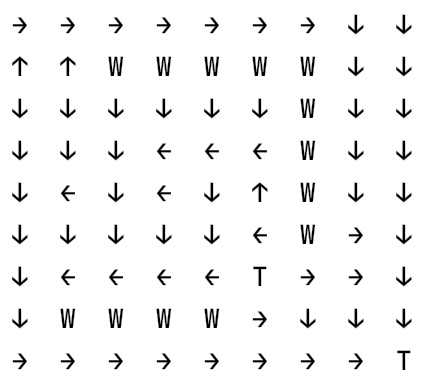
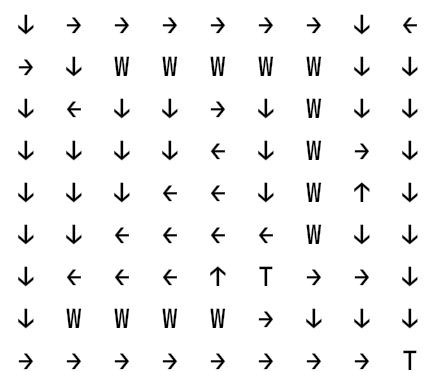
Q learning working

diff --git a/mc_policy_evaluation.py b/mc_policy_evaluation.py
@@ -9,20 +9,19 @@ from gridworld import GridworldEnv
 def mc_policy_evaluation_random_policy(env, num_episodes=1000):
     # Start with an all 0 value function
     V = defaultdict(float)
+    for _s in env.P:
+        V[_s] = 0.0
     returns = defaultdict(list)  # an empty list for each state
     for i in range(num_episodes):
         episodes = []
         # init_state = choice(list(set(env.P.keys()) - set(env.wall_states)))  # draw a random state to start, exc. wall
         init_state = choice(list(set(env.P.keys())))  # draw a random state to start, exc. wall
         # generate an episode
-        while True:
-
+        while not env.is_terminal(init_state):
             action = choice(list(env.P[init_state].keys()))  # random policy such that draw an action randomly
             next_state = env.P[init_state][action][0][1]
             reward = env.P[init_state][action][0][2]
             episodes.append([init_state, action, reward])
-            if env.is_terminal(init_state):
-                break
             init_state = next_state
         G = 0
         states_seen = set()
@@ -32,11 +31,11 @@ def mc_policy_evaluation_random_policy(env, num_episodes=1000):
                 states_seen.add(S)
                 returns[S].append(G)
                 V[S] = np.mean(returns[S])
+        # print(V)
     # terminal states have return 0 always
-    V[env.treasure_state] = 0.0
-    V[env.snake_pit_state] = 0.0
+    # V[env.treasure_state] = 0.0
+    # V[env.snake_pit_state] = 0.0
 
-    assert len(V) == env.nS  # at least each state needs to be at least estimated once
     V_sorted = sorted(V.items(), key=lambda x: x[0])  # sort by state
     return V_sorted
 

diff --git a/q_learning.py b/q_learning.py
@@ -1,0 +1,41 @@
+import sys
+from collections import defaultdict
+from random import choice
+import random
+import numpy as np
+
+from gridworld import GridworldEnv
+
+
+def q_learning(env, num_episodes=1000):
+    # Start with an all 0 Q value function
+    step_size = 0.8
+    discount_factor = 1.0
+    Q = defaultdict(dict)
+    for _s in env.P:
+        for _a in [0, 1, 2, 3]:
+            Q[_s][_a] = random.uniform(0,1)
+    for _ in range(num_episodes):
+        # init_state = choice(list(set(env.P.keys()) - set(env.wall_states)))  # draw a random state to start, exc. wall
+        init_state = choice(list(set(env.P.keys())))  # draw a random state to start
+        # generate an episode
+        while not env.is_terminal(init_state):
+            init_action = max(Q[init_state].items(), key=lambda a: a[1])[0]  # choose the action with max Q value for state
+            reward = env.P[init_state][init_action][0][2]
+            next_state = env.P[init_state][init_action][0][1]
+            # update Q value
+            best_q_for_next_state = max(Q[next_state].items(), key=lambda a: a[1])[1]
+            Q[init_state][init_action] += step_size * (reward + discount_factor * best_q_for_next_state
+                                                       - Q[init_state][init_action])
+            init_state = next_state
+        env.plot_q_value(Q)
+        sys.stdout.flush()
+    return Q
+
+
+if __name__ == '__main__':
+    env = GridworldEnv((9, 9))
+    print(env.P)
+    env._render(mode="human")
+    V = q_learning(env, 50000)
+    print(V)

diff --git a/gridworld.py b/gridworld.py
@@ -92,7 +92,7 @@ class GridworldEnv(discrete.DiscreteEnv):
             # Not a terminal state
             else:
                 # next_state_up = s if y == 0 else s - MAX_X
-                if y == 0 or (y == 2 and x in [2, 3, 4, 5, 6]) or (y == 8 and x in [1, 2, 3, 4]):
+                if y == 0 or (y == 2 and x in [2, 3, 4, 5, 6]) or (y == 8 and x in [1, 2, 3, 4]) or (y == 6 and x == 6):
                     # we are below the wall or below boundary
                     next_state_up = s
                 else:
